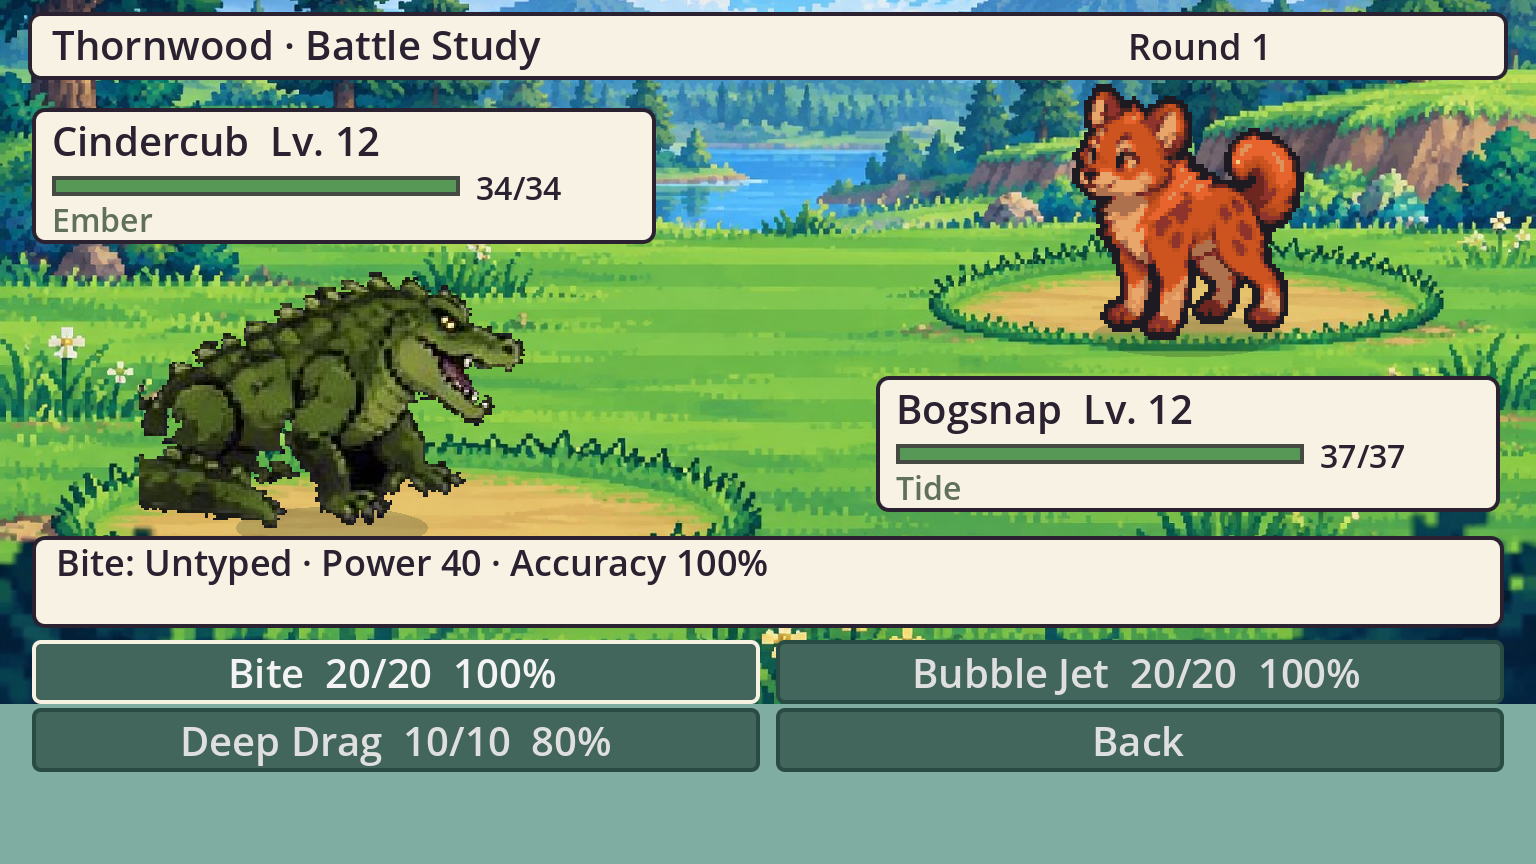
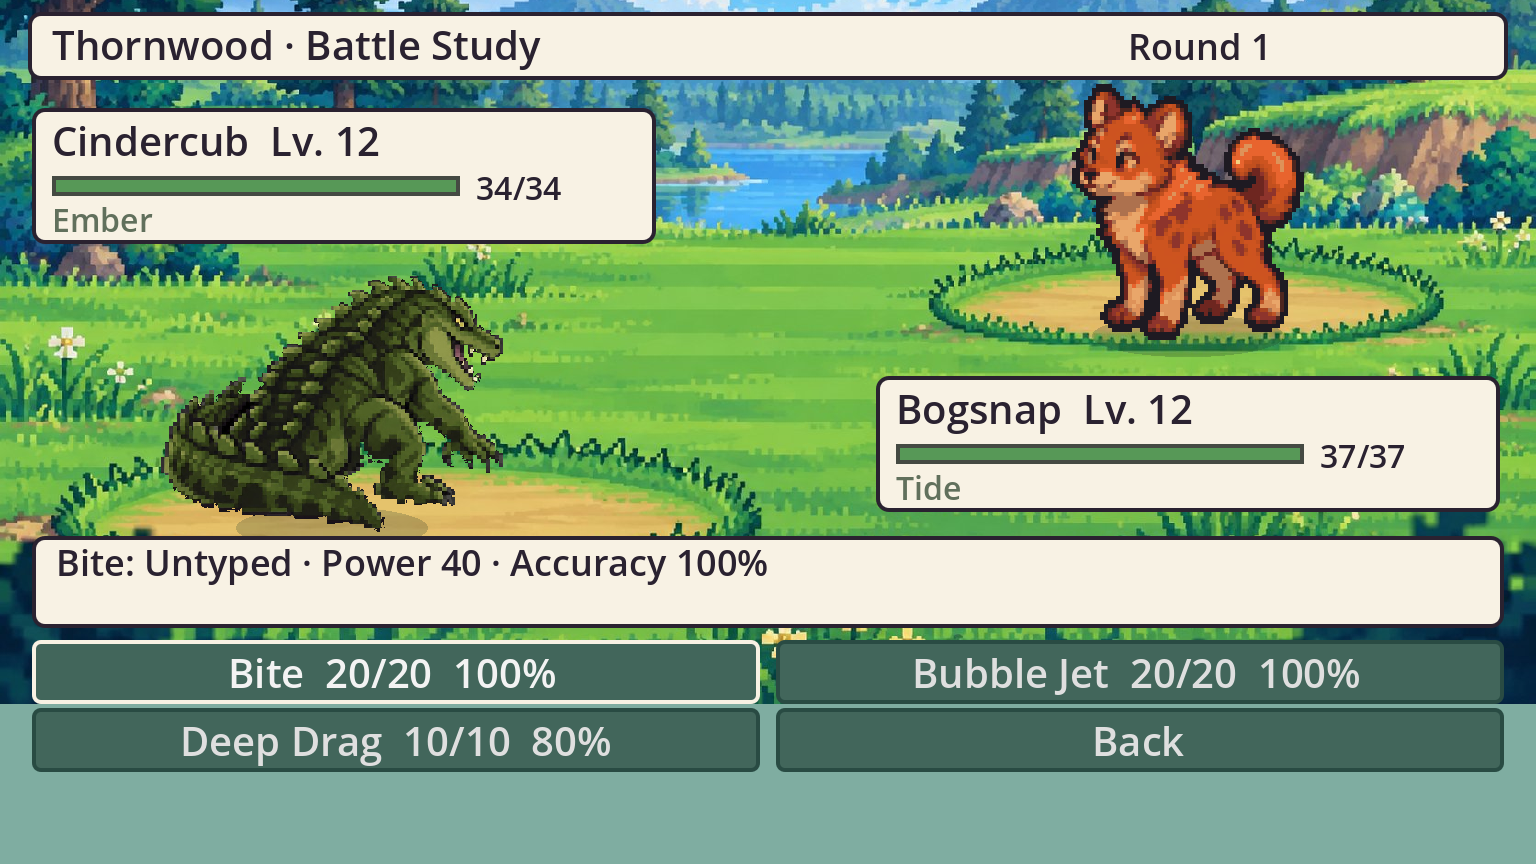
WB-MUSE-INTAKE: Keep clipped idle extracts out of battle playback

Changed region(s): [[0.0625, 0.3125, 0.3438, 0.625]]

diff --git a/docs/research/wildbond-muse-intake.md b/docs/research/wildbond-muse-intake.md
@@ -12,16 +12,16 @@ Acceptance: native art/idle correctly aligned; deterministic math agrees with ca
 
 ## Integrated first step
 
-The native study now loads the seven supplied images (Glimmerwing retains the existing fallback art), plays the four-frame Bogsnap idle ping-pong at four frames per second, and switches to the supplied resting back with motion disabled or battle ended. Frames have different dimensions; drawing fits one height and bottom-centre anchor. Asset bytes are unchanged. The mislabeled background is installed as `.jpg` because its bytes are JPEG, with the rename recorded in the hash manifest. The backdrop is uniformly scaled/cropped rather than stretched.
+The native study uses the supplied background, intact Bogsnap back and Cindercub front (Glimmerwing retains existing art). **Correction after Evan's screenshot review:** the four extracted idle images contain clipped snouts and inconsistent silhouettes. The initial integration wrongly treated them as a finished cycle. They now remain unchanged as reference-only files; no runtime frame selection uses them. Bogsnap uses the complete back with gentle whole-sprite motion. The mislabeled background is installed as `.jpg` because its bytes are JPEG, with the rename recorded in the hash manifest. The backdrop is uniformly scaled/cropped rather than stretched.
 
 `muse_math.gd` adapts the supplied damage flooring, STAB, stat-stage and burn calculations, effective speed, catch-value modifiers, shake threshold and four-roll result. The native round model now uses the damage and catch calculations. An explicit multiplier preserves Wildbond's current canonical seven-element chart rather than copying Muse's placeholder chart. Defensive corrections preserve zero-rate impossibility and explicit immunity; invalid max HP fails cleanly and stages clamp to their documented bounds.
 
-`muse/original-functions.cjs` isolates five original calculation functions for a dependency-free development oracle. Its fixture generator reproduces **348 cases** and verifies all seven image hashes. The native focused runner passes **1,406 checks**, including JS parity, round outcomes, real keyboard/menu checks and consistent idle placement. The actual rendered pointer flow reaches switch, escape, retry and victory. Seven screenshots are retained and inspected; prior study images are preserved for comparison.
+`muse/original-functions.cjs` isolates five original calculation functions for a dependency-free development oracle. Its fixture generator reproduces **348 cases** and verifies all seven image hashes. The corrected native focused runner passes **1,429 checks**, including JS parity, round outcomes, real keyboard/menu checks and exclusion of clipped frames throughout the former cycle. The actual rendered pointer flow reaches switch, escape, retry and victory. Seven screenshots were refreshed after the correction; prior study images remain for comparison.
 
 ## Practical boundary
 
 This reuses actual supplied source and assets; it is no longer only a visual reference. It is still export-excluded native study code. Full status-turn execution, orb-tier/timing UI and animated catch shakes remain to be adapted before claiming a full Muse battle port. Pure math accepting status/orb/timing inputs is not proof that those systems are connected to gameplay. No public pack, world, production sprite, saved journey or species record changed. Source provenance and native differences are documented in `tests/battle_slice/muse/README.md`.
 
-All **28 repository suites pass**, including **26,809 Wildbond Godot checks**, Starfall 488, Night Market 423, the 189-species catalogue and 23 unchanged save names. The separate focused native runner passes 1,406. The fixture generator reproduces 348 original-JS cases and all seven asset hashes. No production or preview file changed. Final-head GitHub CI remains pending until this commit is pushed.
+The pre-correction aggregate passed all **28 repository suites**, including **26,809 Wildbond Godot checks**, Starfall 488, Night Market 423, the 189-species catalogue and 23 unchanged save names. After the visual correction the full Wildbond suite passes **26,832 checks**, the separate focused native runner passes **1,429**, and the real pointer capture passes. The fixture generator reproduces 348 original-JS cases and all seven asset hashes. No production or preview file changed. Final-head GitHub CI must be rerun after the fix is pushed.
 
 After this intake is reviewed, the next bounded step is porting Muse's turn-based sleep/paralysis/burn handling and timing-ring catch interaction into the same event-driven model, followed by a real playtest before adventure encounter integration. The Game Boy-to-modern concept remains a separate presentation progression; no four-era renderer or 3D model was created here.

diff --git a/wildbond-godot/tests/battle_slice/README.md b/wildbond-godot/tests/battle_slice/README.md
@@ -12,7 +12,7 @@ This native desktop prototype is **separate from the adventure**. It never reads
 
 `rounds.gd` owns combat state and seeded randomness, without nodes, timers, file access or drawing. `view.gd` consumes one applied event at a time, showing its health change and message together. `fixture.gd` adapts real species/stat/move data into copied combatants and restores `Rules.DATA`. A later 3D renderer can consume the same event interface.
 
-The study now reuses Evan's supplied Muse background, Bogsnap back and four-frame ping-pong idle, and Cindercub front. Glimmerwing keeps its existing back painting. Motion can be disabled to use Bogsnap's supplied resting back. Different idle frame sizes share a bottom-centre anchor and fitted height; the supplied bytes are unchanged. Existing sound effects are reused. See `muse/README.md` for provenance and limits; this is not production art approval.
+The study now reuses Evan's supplied Muse background, intact Bogsnap back and Cindercub front. Glimmerwing keeps its existing back painting. Bogsnap uses gentle whole-sprite motion that can be disabled. The supplied idle extracts have clipped snouts and inconsistent silhouettes: they are retained unchanged as references but excluded from playback. Existing sound effects are reused. See `muse/README.md` for provenance and limits; this is not production art approval.
 
 This study uses Wildbond's current seven elements and 1.5/0.67 effectiveness. Damage flooring and 1.5 STAB, plus the catch-value/four-shake probability calculation, are now adapted from the supplied Muse functions and checked against original-JS fixtures. The selected demo's placeholder type chart is not imported into the game. It adds rounds, explicit speed ordering, accuracy, finite move uses, switching and command priority. It is **not yet the complete Pokemon ruleset**: abilities, dual typing, status-turn execution, critical hits, trainer/doubles rules, XP/evolution and adventure integration remain separate work. Orb-tier/timing controls and animated catch shakes have not yet been ported; native catching uses the existing three-lure supply and basic timing. The selected attack definitions use their name, power, element and damage category; legacy cooldown/status fields are not executed. Deep Drag is an explicit **study-only** 85-power / 80%-accuracy / 10-use risk/reward variant. Other selected moves are 100%-accuracy / 20-use. Original definitions, individuals, spawn tables and saved battles are unchanged.
 
@@ -27,4 +27,4 @@ node tools/run-all-checks.cjs
 Godot --path wildbond-godot --rendering-method gl_compatibility --script res://tests/battle_slice/capture.gd -- C:/absolute/output/folder
 ```
 
-The focused runner passed **1,406 checks**, including the Muse math comparisons and frame alignment checks. Human enjoyment and physical-phone acceptance are still unverified. Next gate: Evan plays the study and judges readability, pace and whether move/switch choices are interesting before promoting it into adventure encounters. A two-creature 3D comparison can then reuse the rules without converting the overworld.
+The focused runner passed **1,429 checks**, including the Muse math comparisons and a full-cycle check that clipped poses never enter playback. Human enjoyment and physical-phone acceptance are still unverified. Next gate: Evan plays the study and judges readability, pace and whether move/switch choices are interesting before promoting it into adventure encounters. A two-creature 3D comparison can then reuse the rules without converting the overworld.

diff --git a/wildbond-godot/tests/battle_slice/muse/README.md b/wildbond-godot/tests/battle_slice/muse/README.md
@@ -4,7 +4,7 @@ Source: Evan's **Wildbond demo source package.zip**, supplied in this chat on 20
 
 Attribution from the supplied integration notes: Bogsnap back is ChatGPT-generated; background is Evan-generated; the package includes four extracted Bogsnap idle frames and the older Cindercub front. Code is supplied from Muse for adaptation at Evan's request. No unrelated open-source license or Nintendo asset permission is inferred. These are **prototype intake assets**, excluded with the test scene from the public game pack, and not promoted to the production art library by this PR.
 
-All seven image files retain their exact supplied bytes. The background was named `battle-bg.png` but contains JPEG data. Godot requires the actual format extension, so the installed name is `battle-bg.jpg`, recorded explicitly in the manifest. No re-encoding, redrawing or new image generation was performed. `.import` files use lossless compression and no mipmaps. Different idle dimensions are fitted to one height and bottom-centre anchor at draw time; their differing poses/silhouettes remain source material for art review.
+All seven image files retain their exact supplied bytes. The background was named `battle-bg.png` but contains JPEG data. Godot requires the actual format extension, so the installed name is `battle-bg.jpg`, recorded explicitly in the manifest. No re-encoding, redrawing or new image generation was performed. `.import` files use lossless compression and no mipmaps. **The four idle extracts are reference-only:** some cut off the snout at the right edge, and the silhouettes vary substantially. After Evan flagged the fragmented capture, playback was changed to the complete resting back with gentle whole-sprite motion. Normalising a frame's bounds does not repair a cropped drawing.
 
 `original-functions.cjs` retains only five inspected inline functions and their chart/orb constants from the supplied HTML. It is a **development oracle**, not shipped runtime code. The wrapper supplies the original catch closure and exports calculations without the DOM, timers, animations or full HTML execution. No external dependency is needed.
 

diff --git a/START-HERE.md b/START-HERE.md
@@ -98,6 +98,7 @@ section 4). Take your named task, then the block's spare-effort order. How to wo
 3. If you added a design decision, put it in the relevant design doc too.
 
 ## Session log (newest first; one or two lines each)
+- 2026-10-17 Codex / Evan: corrected #547's fragmented Bogsnap: supplied idle extracts clip the snout and vary in silhouette, so playback now uses the complete back with whole-sprite motion. Source extracts retained as references; captures refreshed; 1,429 focused checks pass.
 - 2026-10-17 Codex / Evan: WB-MUSE-INTAKE #547 reuses the supplied Muse background/Bogsnap idle and ports damage/catch calculations into the native study, with 348 original-JS cases and source hashes. Existing world, saves and public pack unchanged; full status/timing controls remain next.
 - 2026-10-17 Codex / Evan: WB-BATTLE-SLICE #546 builds an isolated, save-free native sprite battle with separate round rules, accuracy, switching, berries and catching. Existing Bogsnap/Glimmerwing backs reused; public adventure and #544 web pack unchanged. Human feel awaits play.
 - 2026-10-17 Codex (Evan): WB-REGISTRY runtime integration in PR #544 preserves #491 and stacks on Night Market repair #545. Startup/creature lookup now use compatible identities; fixed-seed creature/save parity passes. All 28 suites pass (Wildbond 25,427); the source-matched 20,657,868-byte pack boots and advances on desktop/portrait/landscape with no runtime errors. Ready for dependency review; not merged or published.

diff --git a/docs/screenshots/wildbond-muse-intake/README.md b/docs/screenshots/wildbond-muse-intake/README.md
@@ -2,4 +2,4 @@
 
 Seven actual Godot 4.7.2 Compatibility-renderer captures at 1536×864: commands, moves, hit, party, switched, escaped and victory. Captured with `tests/battle_slice/capture.gd`, which sends real pointer presses/releases through Fight, move selection, switching, escape, retry and a complete victory. No mockup or generated screenshot. Existing pre-intake images remain in `../wildbond-battle-slice/` for comparison.
 
-The supplied meadow is scaled uniformly and cropped vertically to align the painted platforms. Bogsnap's four supplied idle poses cycle at four frames per second with one fitted height and foot anchor. Source poses differ in silhouette; alignment does not constitute animation/art acceptance. Cindercub and Glimmerwing retain the older visual bar. This is an isolated native prototype, not the public game or physical-phone evidence.
+The supplied meadow is scaled uniformly and cropped vertically to align the painted platforms. Captures were refreshed after Evan flagged Bogsnap's fragmented appearance. The supplied idle extracts contain clipped snouts and inconsistent silhouettes and are now excluded from playback. Bogsnap uses the complete resting back with gentle whole-sprite motion; all source files remain unchanged. Cindercub and Glimmerwing retain the older visual bar. This is an isolated native prototype, not the public game or physical-phone evidence.

diff --git a/docs/PROJECTS.md b/docs/PROJECTS.md
@@ -2,7 +2,7 @@
 
 | ID | Project | Size | Status | Scope |
 |---|---|---|---|---|
-| WB-MUSE-INTAKE | Reuse supplied battle art, idle and isolated math | Small | Built: Codex / Evan, PR #547 | Seven byte-preserved images; four-frame idle; native damage/catch adapter; 348 JS cases, 1,406 focused checks, all 28 suites pass (Wildbond 26,809); stacks on #546; native study only |
+| WB-MUSE-INTAKE | Reuse supplied battle art and isolated math | Small | Built: Codex / Evan, PR #547 | Intact back/background and native math adapter; clipped idle extracts are reference-only after Evan's review; 348 JS cases, 1,429 focused / 26,832 Wildbond checks pass; stacks on #546; native study only |
 
 ## Wildbond sprite battle study
 
